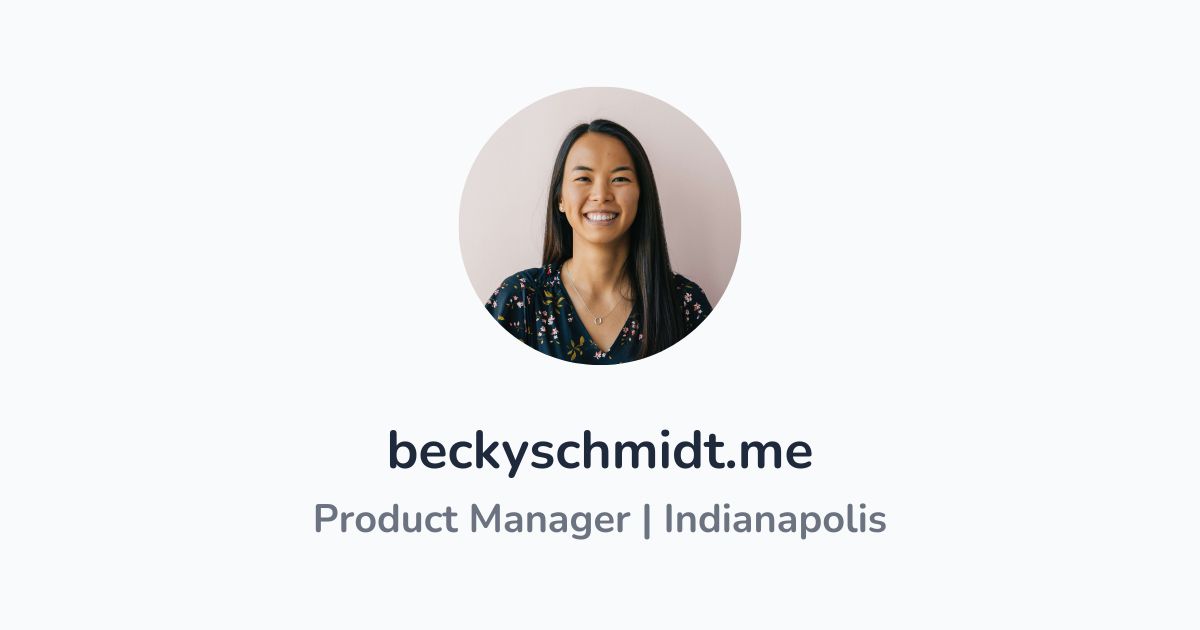
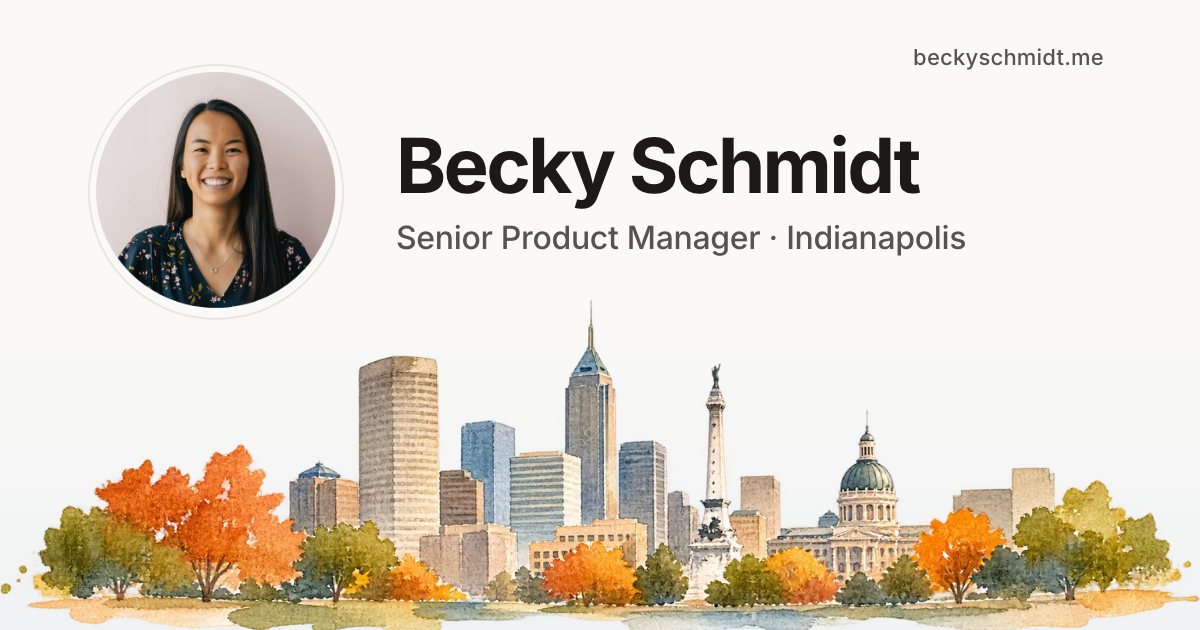
Page-first titles, split social titles, and refreshed OG image
- <title> is now "<page> | Becky Schmidt"; homepage falls back to name + job title
- og:title / twitter:title carry the bare page title, with og:site_name for the brand
- Drop "Home" from the index title and the duplicated name from admin titles
- Regenerate og.png with the skyline footer art; template + script in scripts/og

diff --git a/scripts/og/og.template.html b/scripts/og/og.template.html
@@ -1,0 +1,27 @@
+<!doctype html><html><head><meta charset="utf-8">
+<style>
+@font-face{font-family:Inter;font-weight:500;src:url(__F500__) format("woff2")}
+@font-face{font-family:Inter;font-weight:700;src:url(__F700__) format("woff2")}
+html,body{margin:0;padding:0}
+body{width:1200px;height:630px;background:#faf9f6;color:#1c1917;font-family:Inter,system-ui,sans-serif;-webkit-font-smoothing:antialiased;position:relative;overflow:hidden}
+/* Same light-mode sky as SkylineFooter: transparent fading to a pale blue at the horizon. */
+.sky{position:absolute;left:0;right:0;bottom:0;height:340px;background:linear-gradient(to bottom,rgba(230,236,241,0) 0%,rgba(230,236,241,0.5) 100%)}
+.skyline{position:absolute;left:0;bottom:-6px;width:1200px;height:auto;display:block}
+.row{position:absolute;left:96px;top:72px;display:flex;align-items:center;gap:60px}
+.photo{width:240px;height:240px;border-radius:50%;object-fit:cover;flex:none;box-shadow:0 0 0 6px #faf9f6,0 0 0 8px #e7e5e4}
+.text{display:flex;flex-direction:column;gap:16px}
+.name{font-size:76px;font-weight:700;letter-spacing:-0.035em;line-height:1;margin:0}
+.role{font-size:32px;font-weight:500;color:#57534e;letter-spacing:-0.01em;line-height:1.2;margin:0}
+.url{position:absolute;right:96px;top:44px;font-size:22px;font-weight:500;color:#57534e;letter-spacing:0.01em}
+</style></head><body>
+<div class="sky"></div>
+<img class="skyline" src="../../public/indy-skyline.webp">
+<div class="url">beckyschmidt.me</div>
+<div class="row">
+  <img class="photo" src="headshot.png">
+  <div class="text">
+    <h1 class="name">Becky Schmidt</h1>
+    <p class="role">Senior Product Manager · Indianapolis</p>
+  </div>
+</div>
+</body></html>
